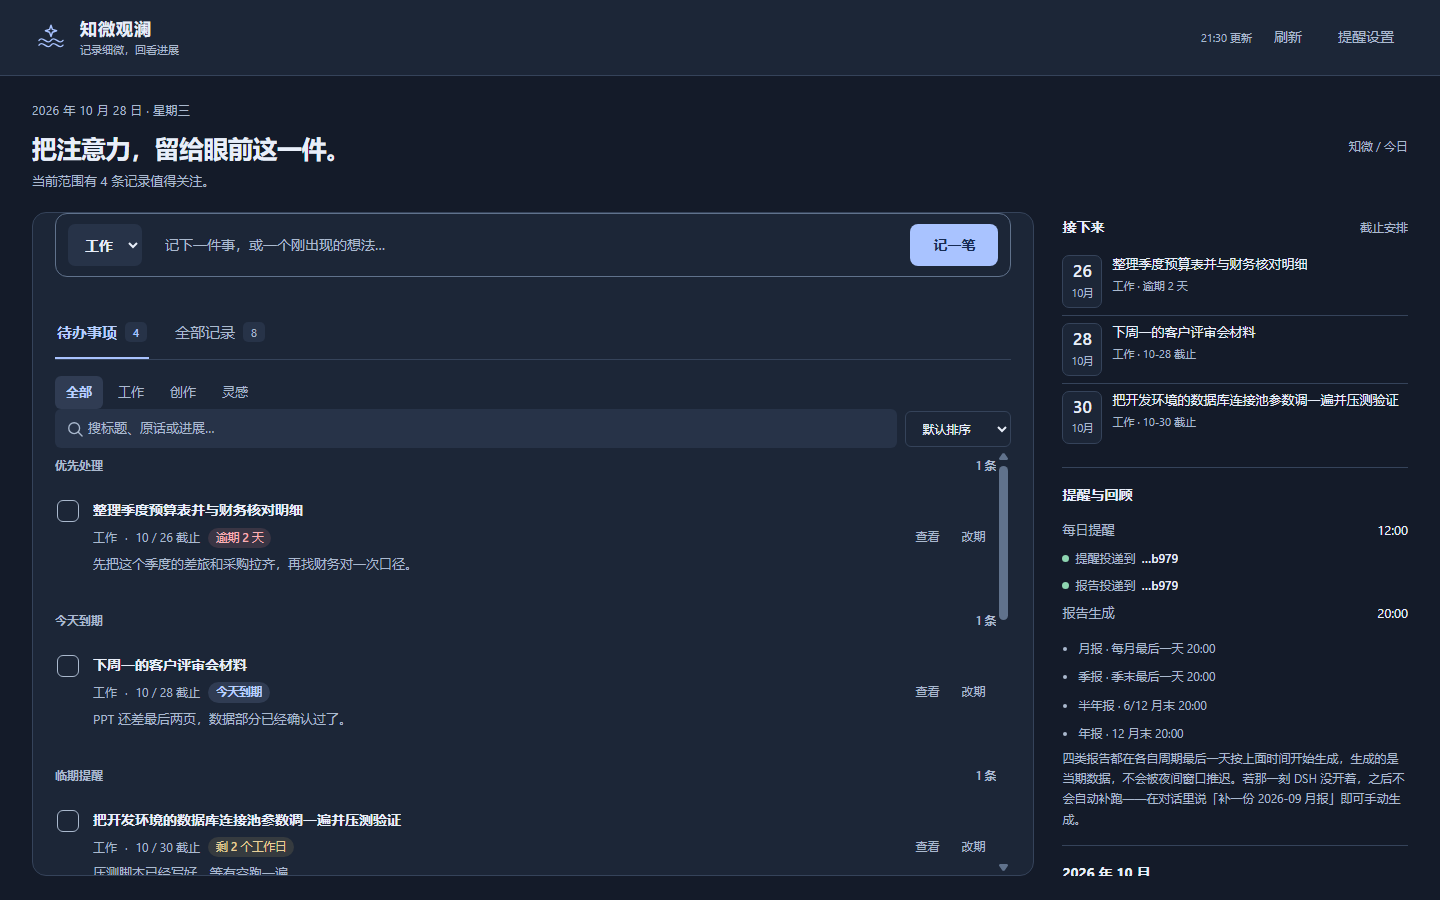
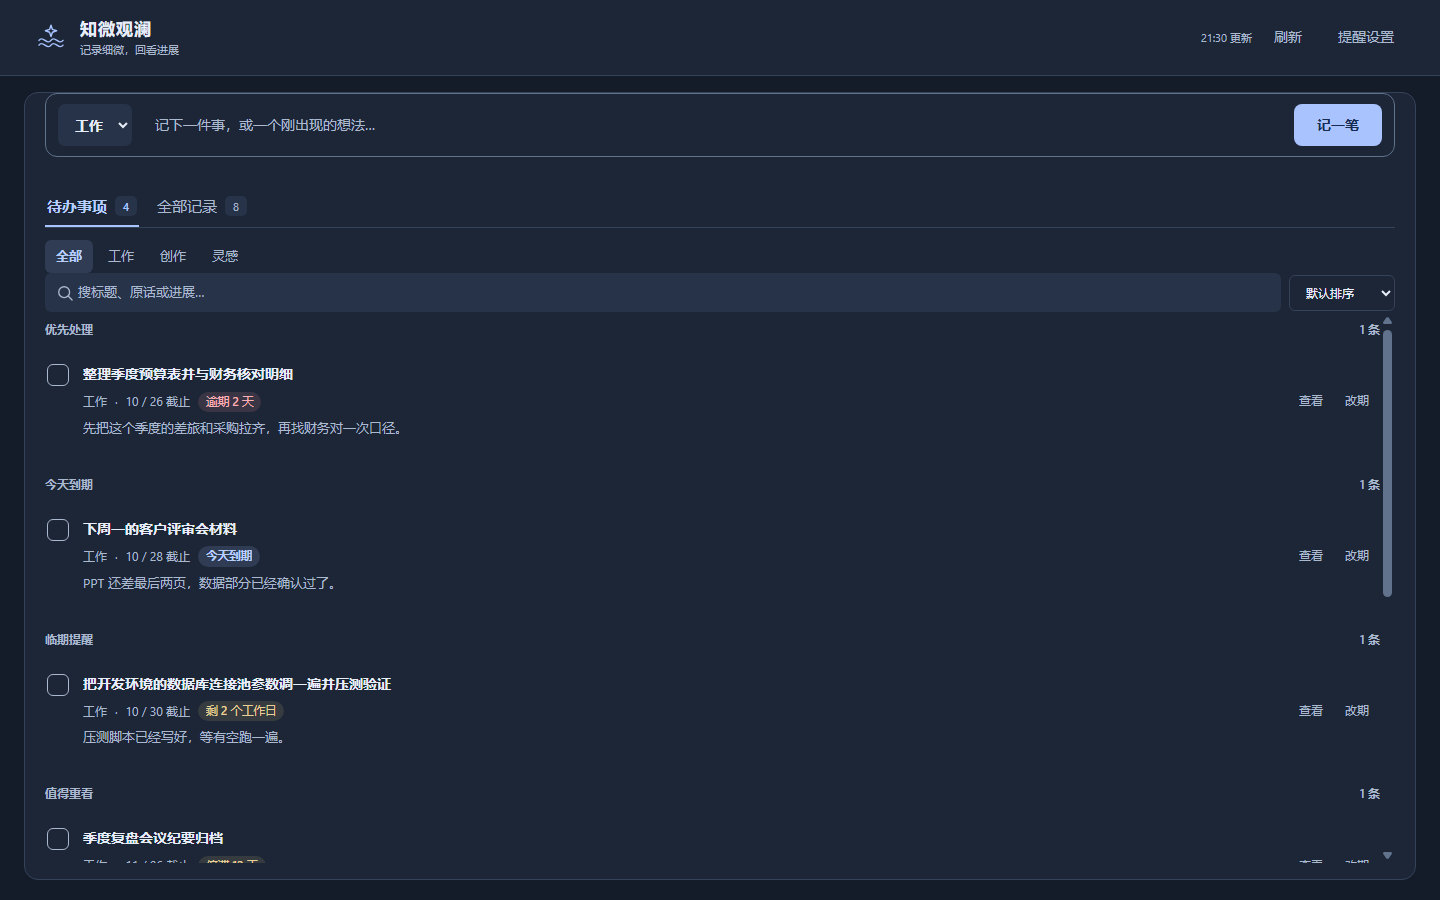
修复截图多出右侧栏，README 按最新界面重写
## 截图与真实界面不符

验收页把 aside 无条件拼进 sct-layout，于是每张截图右侧都凭空多出一栏
「接下来 / 提醒与回顾 / 报告生成 / 月历」。真实组件里这些只在客户台账页出现：

  recordView = tab === 'pending' || tab === 'all'
  h('div', { className: 'sct-layout' }, main, tab === 'board' || recordView ? null : aside)

同期还有两个结构问题，都让截图看起来"比真实界面拥挤"：

1. hero（大标题 + 副标题）也被无条件渲染。真实条件同样是 recordView 时隐藏。
   它凭空占掉约 150px，768x600 下列表区被挤到 125px——
   量测报的"可读实高不足"其实来自验收页自己的多余结构。
2. 根节点缺 data-workspace / data-records。少了它们，
   [data-workspace="true"] .sct-layout{display:flex} 不生效，
   退回 grid 又为不存在的侧栏留出一列。

三处都按真实条件修好后，列表页是单列满宽、没有侧栏，与用户看到的界面一致。

## README 按最新功能重写

- 域表补上真实状态值（对照 lib/domains.js 逐个核对）：
  项目销售是 初期阶段/方案报价/招采阶段，实施交付是 待启动/实施中/验收中/已验收/已终止
- 「七个域」改「九个域」
- 面板一节写清四个页签，并明确"列表页没有右侧栏，侧栏只服务客户台账"
- 补「从商机到回款」的链路与五个刻意设计
- 配图全部换新：面板深浅各一、详情页、数据看板

## 顺带修掉的测试与代码不同步

截图结构一变，一批基于旧布局的断言就失效了：

- review-render：列表页是 flex 而非 grid，gridTemplateColumns 只是残留声明，
  拿它判"几列"会误判。改按 display 判，并给 shots.mjs 补采 layoutDisplay
- review-render：辅助区断言在无侧栏时量不到，改为"有时才校验"
- review-render：列表区高度下限从写死 700px 改为容器高度的 40%
  （768x600 实测 251px，能完整看两条记录；40% 仍能拦住当年只剩 32–63px 的缺陷）
- contrast-check：主标题采样 .sct-hero h1 取不到色，改采记录标题
- contrast-check：侧栏说明文字同理，改采记录摘要（同为 --zw-muted）

## 踩到的坑

在模板字符串的 HTML 注释里写了反引号，直接把字符串闭合、整份文件语法错误
——正是 L-005 记过的同一类问题。已去掉。

## 验证

46 个测试脚本全过；review-render 14 项、contrast-check 24 项全绿；
30 张截图重新生成，深浅两套逐张确认哈希互异。

diff --git a/README.md b/README.md
@@ -28,15 +28,15 @@
 
 记录分九类，各有各的形态，共用一套引擎：
 
-| 域 | 适合记什么 | 一条记录的形态 |
+| 域 | 适合记什么 | 状态 |
 |---|---|---|
-| **日常事务** | 没有客户、没有金额，但要办完的事 | 有期限、可标完成；谈出眉目就转成商机 |
-| **客户交流** | 拜访记录 | 约 → 去了 → 聊了什么，一条走完 |
+| **日常事务** | 没有客户、没有金额，但要办完的事 | 待办 / 进行中 / 已完成 / 已放弃 |
+| **客户交流** | 拜访记录 | 待拜访 / 已拜访 / 已取消 |
 | **商机管理** | 还没确定要做的早期线索 | 线索 / 接触中 / 跟进中 |
-| **项目销售** | 确定要投的标 | 阶段 + 是否中标，两条轴分开 |
-| **合同管理** | 签下来的合同与回款 | 金额、期次、补充协议 |
-| **实施交付** | 中标后的交付过程 | 状态 + 按期的回款计划 |
-| **创作管理** | 需要推进的项目 | 分阶段（构想/起草/修订/完成/搁置） |
+| **项目销售** | 确定要投的标 | 初期阶段 / 方案报价 / 招采阶段（另有一条"是否中标"的轴） |
+| **合同管理** | 签下来的合同与回款 | 草拟 / 已签订 / 履行中 / 已完成 / 已解除 |
+| **实施交付** | 中标后的交付过程 | 待启动 / 实施中 / 验收中 / 已验收 / 已终止 |
+| **创作管理** | 需要推进的项目 | 构思 / 起草 / 修订 / 完成 / 搁置 |
 | **灵感记录** | 冒出来还不想动的想法 | 只追加不合并，久不动会"沉睡" |
 | **助手备忘** | 你自己踩过的坑 | 只记约束，没有完成和改期 |
 
@@ -165,6 +165,15 @@
 
 ![浅色主题](docs/images/panel-light.png)
 
+顶部四个页签：**待办事项 / 全部记录 / 数据看板 / 客户台账**。
+
+- 待办事项按紧迫程度分组（优先处理 / 今天到期 / 临期提醒），只列需要你动手的
+- 全部记录是按域浏览的完整列表，支持搜索与四种排序
+- 客户台账要等真有客户数据才出现——没数据时不占位置
+
+**列表页没有右侧栏**：整宽给记录本身，右上角只留刷新与提醒设置。
+侧栏（接下来的截止安排、提醒与报告、月历）只服务客户台账那一页。
+
 - 深浅主题跟随 DSH，颜色走语义令牌，对比度按 WCAG 校准
 - 宽度按**插件容器实际宽度**重排，不是按浏览器窗口——侧栏展开、右侧栏打开都会正确换行
 - 页签支持 `←/→/Home/End` 键切换
@@ -176,7 +185,7 @@
 指到自己的 Obsidian 库，这样记录既是插件的数据库，也是一个能直接打开的笔记库。
 没有数据库、没有加密、没有任何上传行为——用 Obsidian、VS Code、git 都能直接读写。
 
-**七个域太多了，我只想记待办行不行？**
+**九个域太多了，我只想记待办行不行？**
 可以。只往「日常事务」记就行，其他域空着不影响任何功能。域是按"这件事有没有客户和投标过程"
 划分的，用不上就不用。
 
